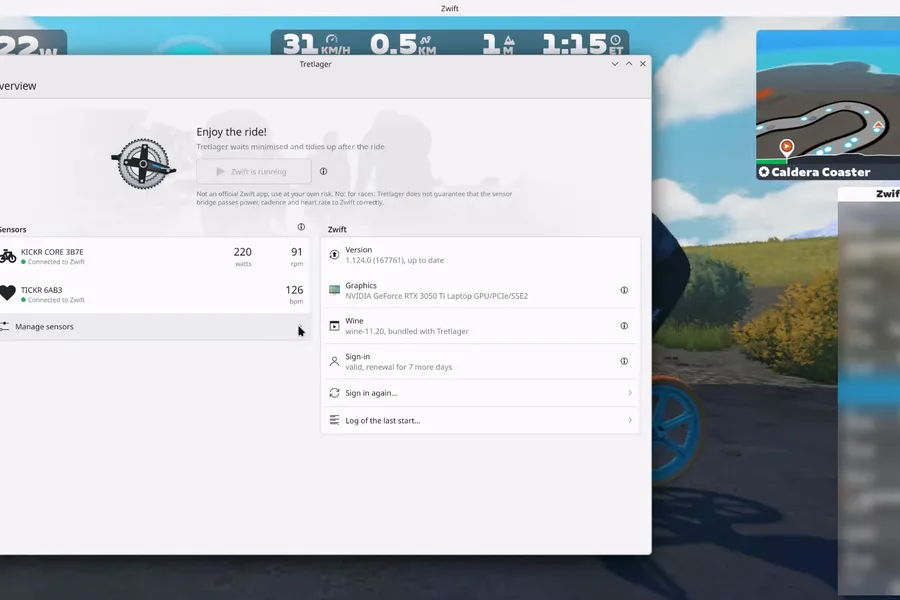
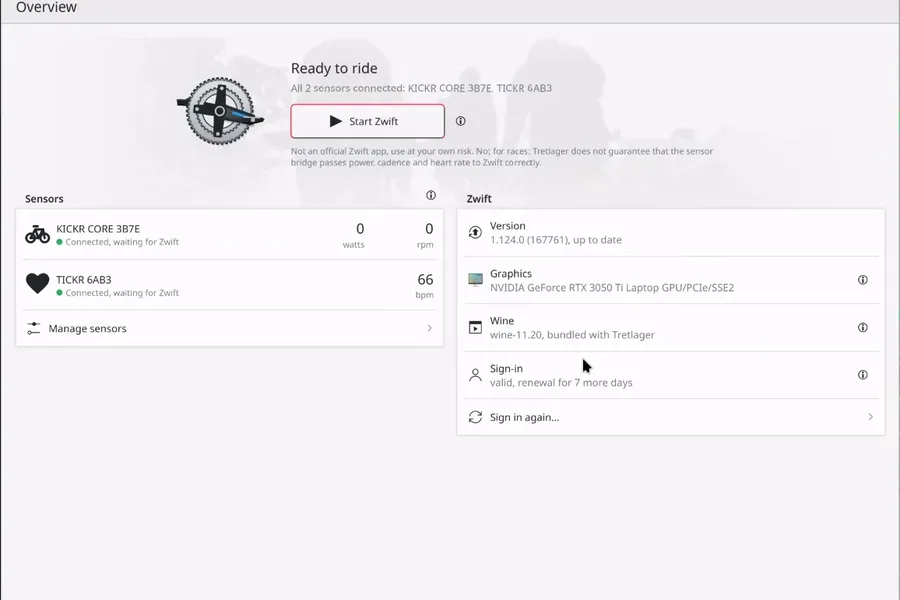
Linux strip: two columns with larger screenshots, Tretlager window only, Pulsgeber added

diff --git a/tools/build.py b/tools/build.py
@@ -48,7 +48,8 @@ ICONS = {
 SHOTS = [
     ("gnomos", APPS / "gnomos/screenshots/gnomos-albums.webp", "desk", "center"),
     ("screenforge", APPS / "screenforge/docs/screenshots/main-window.png", "desk", "center"),
-    ("tretlager", APPS / "tretlager/docs/screenshots/tretlager-ride.webp", "desk", "center"),
+    ("tretlager", APPS / "tretlager/docs/screenshots/tretlager-ready.webp", "desk", "center"),
+    ("pulsgeber", APPS / "pulsgeber/docs/screenshots/quick-settings.webp", "desk", "center"),
     ("planetfoss-android", APPS / "planetfoss-android/docs/screenshots/radar.webp", "phone", "north"),
     ("hausmusik", APPS / "hausmusik/fastlane/metadata/android/en-US/images/phoneScreenshots/1_stage.png", "phone", "north"),
 ]

diff --git a/profile/README.md b/profile/README.md
@@ -18,11 +18,14 @@ Open source apps for the Linux desktop and Android, written and maintained by Ch
 
 ## Linux desktop
 
-<table>
+<table width="100%">
   <tr>
-    <td width="33%" align="center" valign="top"><a href="https://github.com/freiversum/gnomos"><img src="../assets/shots/gnomos.webp" alt="Gnomos showing an album grid"></a><br><sub>Gnomos</sub></td>
-    <td width="33%" align="center" valign="top"><a href="https://github.com/freiversum/ScreenForge"><img src="../assets/shots/screenforge.webp" alt="ScreenForge main window"></a><br><sub>ScreenForge</sub></td>
-    <td width="33%" align="center" valign="top"><a href="https://github.com/freiversum/tretlager"><img src="../assets/shots/tretlager.webp" alt="Tretlager during a ride"></a><br><sub>Tretlager</sub></td>
+    <td width="50%" align="center" valign="top"><a href="https://github.com/freiversum/gnomos"><img src="../assets/shots/gnomos.webp" alt="Gnomos showing an album grid"></a><br><sub>Gnomos</sub></td>
+    <td width="50%" align="center" valign="top"><a href="https://github.com/freiversum/ScreenForge"><img src="../assets/shots/screenforge.webp" alt="ScreenForge main window"></a><br><sub>ScreenForge</sub></td>
+  </tr>
+  <tr>
+    <td width="50%" align="center" valign="top"><a href="https://github.com/freiversum/tretlager"><img src="../assets/shots/tretlager.webp" alt="Tretlager, ready to ride with two sensors connected"></a><br><sub>Tretlager</sub></td>
+    <td width="50%" align="center" valign="top"><a href="https://github.com/freiversum/pulsgeber"><img src="../assets/shots/pulsgeber.webp" alt="Pulsgeber in the GNOME Quick Settings"></a><br><sub>Pulsgeber</sub></td>
   </tr>
 </table>
 
@@ -37,7 +40,7 @@ Open source apps for the Linux desktop and Android, written and maintained by Ch
 
 ## Android
 
-<table>
+<table width="100%">
   <tr>
     <td width="33%" align="center" valign="top"><a href="https://github.com/freiversum/planetfoss-android"><img src="../assets/shots/planetfoss-android.webp" width="190" alt="PlanetFOSS radar tab"></a><br><sub>PlanetFOSS</sub></td>
     <td width="33%" align="center" valign="top"><a href="https://github.com/freiversum/hausmusik"><img src="../assets/shots/hausmusik.webp" width="190" alt="Hausmusik now playing"></a><br><sub>Hausmusik</sub></td>
